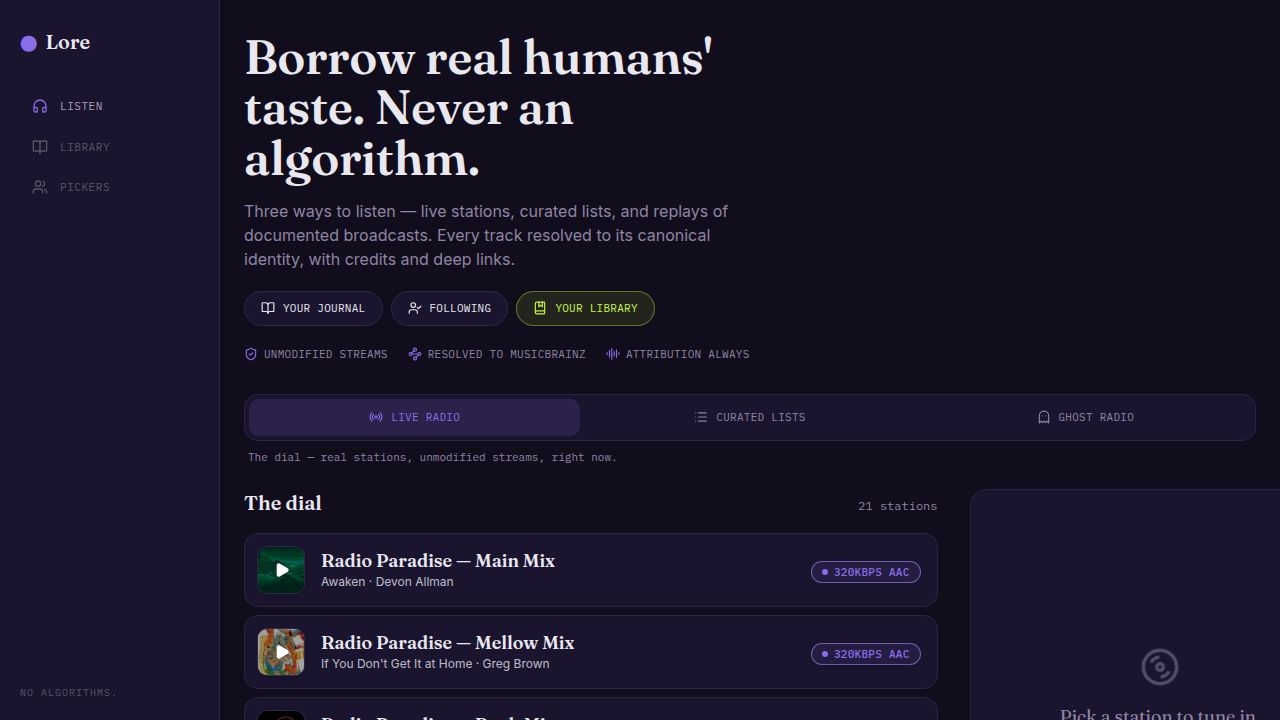
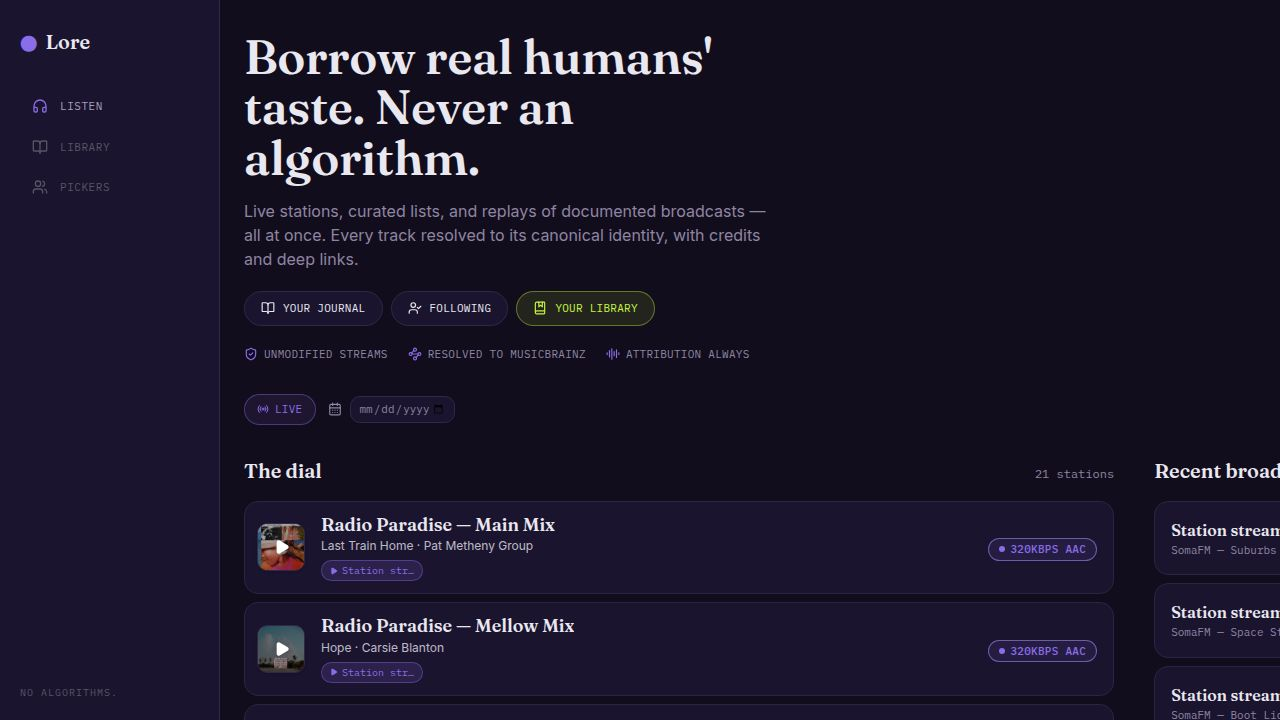
Add show timelines to station cards displaying daily broadcast schedules
Introduces a new API endpoint `/api/stations/schedule` to fetch daily show schedules for all stations, updates `StationList` component to display these schedules as chronological, scrollable timelines, and integrates the new schedule fetching logic in `Home.tsx`.

Replit-Commit-Author: Agent
Replit-Commit-Session-Id: 9a42ae9b-f730-4ff3-bba2-7befcfeb9203
Replit-Commit-Checkpoint-Type: full_checkpoint
Replit-Commit-Event-Id: 3bd0ca48-6778-4e7b-a430-681c1f602078
Replit-Commit-Screenshot-Url: https://storage.googleapis.com/screenshot-production-us-central1/328c7e60-1e3e-4285-858c-1e54fe82d9e8/9a42ae9b-f730-4ff3-bba2-7befcfeb9203/7iELmF9
Replit-Helium-Checkpoint-Created: true

diff --git a/artifacts/lore/src/components/StationList.tsx b/artifacts/lore/src/components/StationList.tsx
@@ -3,6 +3,7 @@ import type {
   NowPlaying,
   PickedLookupItem,
   Station,
+  StationScheduleRun,
 } from "@workspace/api-client-react";
 import { QualityBadge } from "./QualityBadge";
 import { BadgeCheck, Mic, Pause, Play, Radio } from "lucide-react";
@@ -19,6 +20,11 @@ interface StationListProps {
    * the song it's spinning right now ("KEXP is playing a Pitchfork pick").
    */
   picked?: Map<string, PickedLookupItem>;
+  /**
+   * Show timeline: station slug → ordered array of that day's show blocks.
+   * When provided, a horizontal timeline strip is rendered on each card.
+   */
+  schedule?: Map<string, StationScheduleRun[]>;
   onToggle: (station: Station) => void;
   onSelect: (station: Station) => void;
 }
@@ -29,6 +35,7 @@ export function StationList({
   status,
   pulse,
   picked,
+  schedule,
   onToggle,
   onSelect,
 }: StationListProps) {
@@ -40,6 +47,7 @@ export function StationList({
         const isLoading = isActive && status === "loading";
         const np = pulse?.get(station.slug) ?? null;
         const pick = picked?.get(station.slug) ?? null;
+        const runs = schedule?.get(station.slug) ?? null;
         const artwork = np?.recording?.artworkUrl ?? np?.artworkUrl ?? null;
         const trackLine = np
           ? [np.recording?.title ?? np.rawTitle, np.recording?.artist ?? np.rawArtist]
@@ -88,7 +96,6 @@ export function StationList({
                       className="absolute inset-0 h-full w-full object-cover"
                       data-testid={`pulse-artwork-${station.slug}`}
                     />
-                    {/* Scrim so the play glyph stays readable over any cover. */}
                     <span className="absolute inset-0 bg-black/35 transition-colors group-hover:bg-black/45" />
                   </>
                 )}
@@ -105,7 +112,7 @@ export function StationList({
                 </span>
               </button>
 
-              <div className="min-w-0 flex-1">
+              <div className="min-w-0 flex-1 overflow-hidden">
                 <div className="flex items-center gap-2">
                   <h3 className="truncate font-serif text-lg font-semibold leading-tight text-foreground">
                     {station.name}
@@ -181,6 +188,14 @@ export function StationList({
                       </span>
                     </span>
                   ))}
+
+                {/* Show timeline — horizontal scrollable strip of today's blocks */}
+                {runs && runs.length > 0 && (
+                  <ShowTimeline
+                    runs={runs}
+                    stationSlug={station.slug}
+                  />
+                )}
               </div>
 
               <div className="shrink-0">
@@ -191,5 +206,62 @@ export function StationList({
         );
       })}
     </ul>
+  );
+}
+
+/** Horizontal scrollable row of show/block chips for a station's day. */
+function ShowTimeline({
+  runs,
+  stationSlug,
+}: {
+  runs: StationScheduleRun[];
+  stationSlug: string;
+}) {
+  const now = Date.now();
+  // "Active" = the block that contains right now, or the most recent one if
+  // none span the current moment (e.g. station hasn't logged in a while).
+  const activeRunId =
+    runs.find(
+      (r) =>
+        new Date(r.startedAt).getTime() <= now &&
+        new Date(r.endedAt).getTime() >= now - 4 * 60 * 60 * 1000,
+    )?.runId ?? runs[runs.length - 1]?.runId;
+
+  return (
+    <div
+      className="mt-1.5 flex gap-1 overflow-x-auto"
+      style={{ scrollbarWidth: "none" }}
+      data-testid={`show-timeline-${stationSlug}`}
+      onClick={(e) => e.stopPropagation()}
+    >
+      {runs.map((run) => {
+        const label = run.show?.name ?? "Station stream";
+        const isActive = run.runId === activeRunId;
+        const replayable = run.resolvedCount > 0;
+        return (
+          <Link
+            key={run.runId}
+            href={`/archive/station-runs/${run.runId}${replayable ? "?play=1" : ""}`}
+            onClick={(e) => e.stopPropagation()}
+            title={
+              run.show?.djName
+                ? `${run.show.djName} · ${label} · ${run.resolvedCount}/${run.spinCount} tracks playable`
+                : `${label} · ${run.resolvedCount}/${run.spinCount} tracks playable`
+            }
+            data-testid={`show-chip-${run.runId}`}
+            className={`inline-flex shrink-0 items-center gap-1 rounded-full border px-2 py-0.5 font-mono text-[10px] whitespace-nowrap transition-colors ${
+              isActive
+                ? "border-primary/40 bg-primary/15 text-primary"
+                : "border-border bg-background/50 text-muted-foreground hover:border-primary/30 hover:text-foreground"
+            }`}
+          >
+            {replayable && (
+              <Play className="h-2 w-2 shrink-0 fill-current" />
+            )}
+            <span className="max-w-[12ch] truncate">{label}</span>
+          </Link>
+        );
+      })}
+    </div>
   );
 }

diff --git a/artifacts/api-server/src/routes/lore/stations.ts b/artifacts/api-server/src/routes/lore/stations.ts
@@ -8,6 +8,7 @@ import {
   GetStationArchiveResponse,
   GetStationPickerOverlapsParams,
   GetStationPickerOverlapsResponse,
+  GetStationsScheduleResponse,
 } from "@workspace/api-zod";
 import {
   db,
@@ -258,6 +259,68 @@ router.get("/stations/:slug/overlaps/pickers", h(async (req, res) => {
       })),
     }),
   );
+}));
+
+// GET /api/stations/schedule?date=YYYY-MM-DD
+// Returns all show blocks (runs) for every station on a given UTC calendar day,
+// ordered chronologically. One call powers the show timeline on every station card.
+router.get("/stations/schedule", h(async (req, res) => {
+  const rawDate = typeof req.query.date === "string" ? req.query.date.trim() : null;
+  const dateFilter = rawDate && /^\d{4}-\d{2}-\d{2}$/.test(rawDate) ? rawDate : null;
+  if (!dateFilter) {
+    return res.status(400).json({ error: "date query param required (YYYY-MM-DD)" });
+  }
+
+  const rows = await db
+    .select({
+      stationSlug: stationsTable.slug,
+      runId: spinRunIdExpr,
+      spinCount: sql<number>`count(*)::int`,
+      resolvedCount: sql<number>`count(*) filter (where ${spinsTable.mbid} is not null)::int`,
+      startedAt: sql<string>`min(${spinsTable.playedAt})`,
+      endedAt: sql<string>`max(${spinsTable.playedAt})`,
+      showName: showsTable.name,
+      djName: showsTable.djName,
+    })
+    .from(spinsTable)
+    .innerJoin(stationsTable, eq(spinsTable.stationId, stationsTable.id))
+    .leftJoin(showsTable, eq(spinsTable.showId, showsTable.id))
+    .where(
+      and(
+        isNotNull(spinsTable.stationId),
+        sql`${spinsTable.playedAt}::date = ${dateFilter}::date`,
+      ),
+    )
+    .groupBy(
+      stationsTable.slug,
+      spinDayExpr,
+      spinsTable.showId,
+      showsTable.name,
+      showsTable.djName,
+    )
+    .orderBy(stationsTable.slug, sql`min(${spinsTable.playedAt})`);
+
+  // Group into per-station arrays, preserving chronological order within each.
+  const bySlug = new Map<string, (typeof rows)[number][]>();
+  for (const row of rows) {
+    const arr = bySlug.get(row.stationSlug);
+    if (arr) arr.push(row);
+    else bySlug.set(row.stationSlug, [row]);
+  }
+
+  const items = [...bySlug.entries()].map(([stationSlug, stationRuns]) => ({
+    stationSlug,
+    runs: stationRuns.map((r) => ({
+      runId: r.runId,
+      show: r.showName ? { name: r.showName, djName: r.djName ?? null } : null,
+      spinCount: r.spinCount,
+      resolvedCount: r.resolvedCount,
+      startedAt: new Date(r.startedAt).toISOString(),
+      endedAt: new Date(r.endedAt).toISOString(),
+    })),
+  }));
+
+  return res.json(GetStationsScheduleResponse.parse({ items }));
 }));
 
 export default router;

diff --git a/artifacts/lore/src/pages/Home.tsx b/artifacts/lore/src/pages/Home.tsx
@@ -10,6 +10,8 @@ import {
   getListStationsNowPlayingQueryKey,
   useListStationsAtDate,
   getListStationsAtDateQueryKey,
+  useGetStationsSchedule,
+  getGetStationsScheduleQueryKey,
   useListPickers,
   getListPickersQueryKey,
   useGetArchiveRecentRuns,
@@ -20,6 +22,7 @@ import {
   type Picker,
   type RecentStationRun,
   type PickedLookupItem,
+  type StationScheduleRun,
 } from "@workspace/api-client-react";
 import { usePlayer } from "../player/PlayerProvider";
 import { StationList } from "../components/StationList";
@@ -199,6 +202,12 @@ function LiveMode({ selectedDate }: { selectedDate: string | null }) {
   const focusedStation =
     stations.find((s) => s.slug === focusedSlug) ?? player.station ?? null;
 
+  // Schedule date: when sweeping to a past date use that; otherwise today.
+  const scheduleDate = useMemo(
+    () => selectedDate ?? todayStr(),
+    [selectedDate],
+  );
+
   // Live pulse — refetch every 30s when no date is selected.
   const { data: livePulse } = useListStationsNowPlaying({
     query: {
@@ -219,6 +228,22 @@ function LiveMode({ selectedDate }: { selectedDate: string | null }) {
   });
 
   const pulse = selectedDate ? datePulse : livePulse;
+
+  // Show timeline — all blocks for every station on the schedule date.
+  const { data: scheduleData } = useGetStationsSchedule(scheduleDate, {
+    query: {
+      queryKey: getGetStationsScheduleQueryKey(scheduleDate),
+      staleTime: selectedDate ? 5 * 60 * 1000 : 60_000,
+      refetchInterval: selectedDate ? false : 2 * 60 * 1000,
+    },
+  });
+  const scheduleBySlug = useMemo((): Map<string, StationScheduleRun[]> => {
+    const map = new Map<string, StationScheduleRun[]>();
+    for (const item of scheduleData?.items ?? []) {
+      map.set(item.stationSlug, item.runs);
+    }
+    return map;
+  }, [scheduleData]);
 
   const pulseBySlug = useMemo(() => {
     return new Map(
@@ -315,6 +340,7 @@ function LiveMode({ selectedDate }: { selectedDate: string | null }) {
           status={player.status}
           pulse={pulseBySlug}
           picked={pickedBySlug}
+          schedule={scheduleBySlug}
           onToggle={handleToggle}
           onSelect={handleSelect}
         />